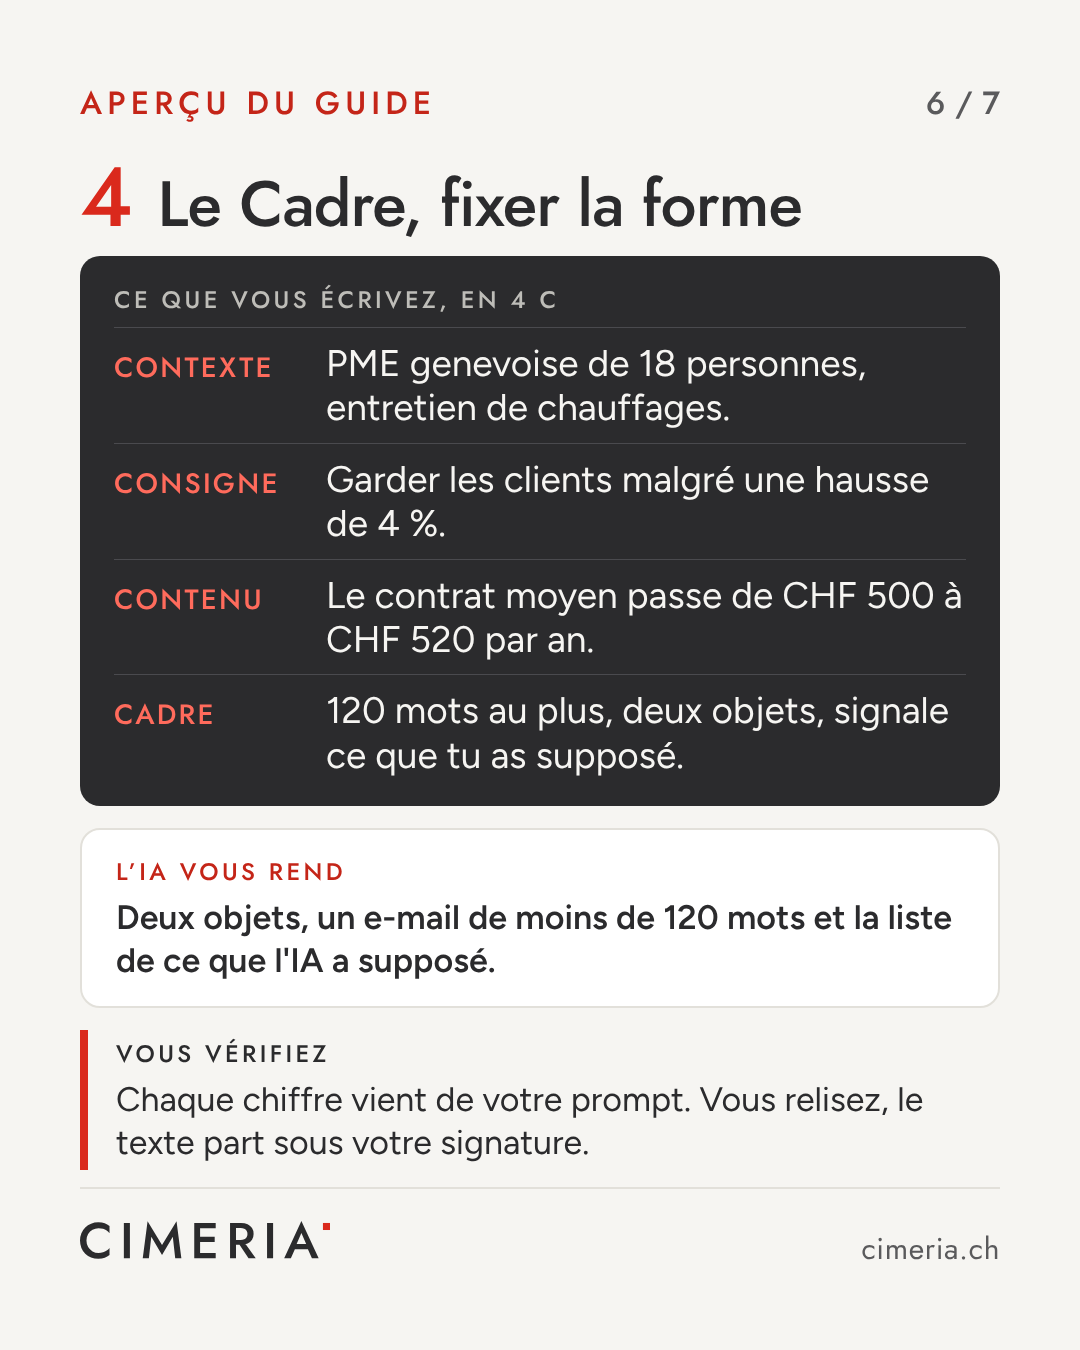
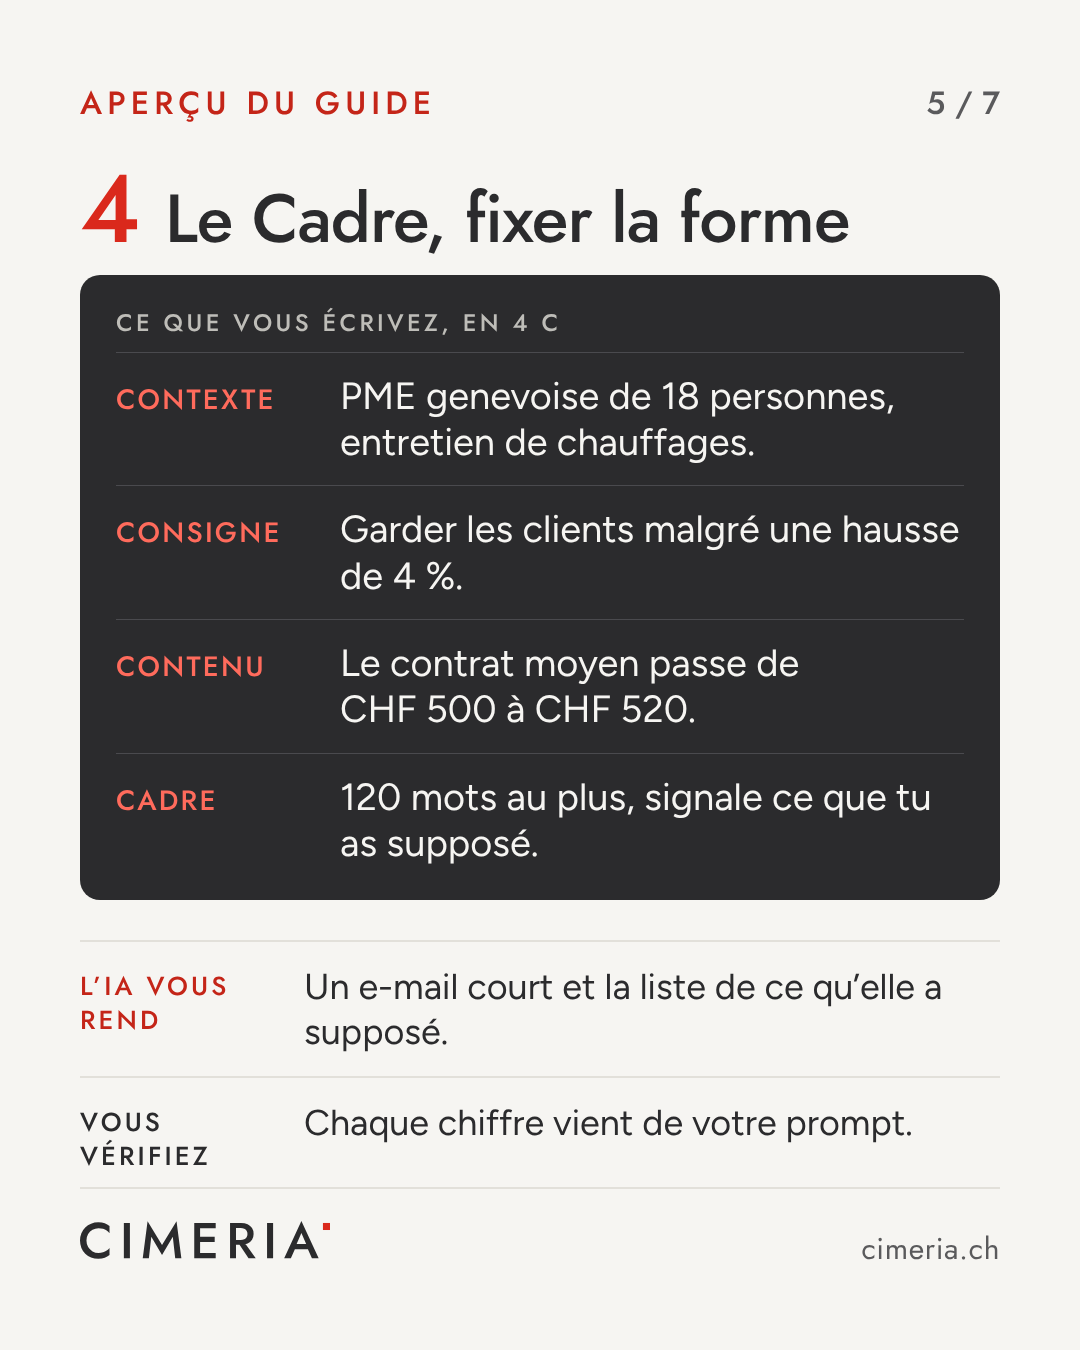
Gabarits : couverture au titre en haut, étape allégée, diapositive capture
Claude-Session: https://claude.ai/code/session_01QYrK9sT28DGg33dLHEJ4sL

Changed region(s): [[0.0611, 0.1244, 0.9472, 0.8711], [0.0917, 0.4356, 0.2444, 0.56], [0.0917, 0.3422, 0.275, 0.4044]]

diff --git a/gabarits/generer.py b/gabarits/generer.py
@@ -10,6 +10,7 @@ Le JSON contient "visuels", une liste. Chaque visuel a un "gabarit" et ses champ
 - cas        : titre, accroche, photo                     (couverture de Reel, univers anthracite)
 - agenda     : titre, evenements [{date, lieu, titre}]
 - actualite  : date, titre, resume, source                (carte seule, LinkedIn et Facebook)
+- couverture_ia, lecon, etape_methode, capture, fin : carrousel de cas pratique (voir chaque fonction)
 Champ commun facultatif : "fichier". Les chemins d'image sont absolus ou relatifs au fichier JSON.
 Règles : textes courts et gros (lecture sur téléphone), rouge réservé à l'étiquette, au filet et au logo.
 """
@@ -31,7 +32,12 @@ CLAIR = dict(fond="#F6F5F2", carte="#FFFFFF", encre="#2B2B2D", douce="#5A5A5C", 
 SOMBRE = dict(fond="#2B2B2D", carte="#36363A", encre="#F6F5F2", douce="#BEBDB8", rouge="#F04A3B", rougeTexte="#FF6B5C", filet="#4A4A4E")
 RACINE = pathlib.Path(".")
 
-def e(t): return html.escape(str(t or ""))
+def e(t):
+    """Échappe le texte et pose les espaces insécables de la typographie française (CHF 500, 4 %, « »)."""
+    t = html.escape(str(t or ""))
+    for a, b in (("CHF ", "CHF\u00a0"), (" %", "\u00a0%"), ("« ", "«\u00a0"), (" »", "\u00a0»"), (" ?", "\u202f?"), (" !", "\u202f!")):
+        t = t.replace(a, b)
+    return t
 def img(chemin):
     p = pathlib.Path(chemin)
     return (p if p.is_absolute() else (RACINE / p)).resolve().as_uri()
@@ -247,16 +253,23 @@ def echange(v):
     return page(base(c, w, h), corps), (w, h)
 
 def couverture_ia(v):
+    """Couverture de cas pratique : le titre en haut, gros, lisible en vignette. L'échange naïf en dessous sert d'illustration.
+    Champs : rubrique, total, titre (45 signes au plus de préférence), accroche, demande, reponse_vague, verdict"""
     c = CLAIR; w, h = 1080, 1350
+    vague = (f"<div style='display:flex;margin-top:18px'><div style='max-width:86%;background:#FFFFFF;border:2px solid #E2E0DA;border-radius:24px 24px 24px 6px;padding:20px 30px;font-size:28px;color:#5A5A5C;line-height:1.3'>{e(v['reponse_vague'])}</div></div>"
+             f"<div style='position:absolute;right:10px;bottom:-34px;border:4px solid #DA291C;background:{c['fond']};color:#C42518;font-family:Jost;font-weight:500;font-size:34px;letter-spacing:.12em;text-transform:uppercase;padding:10px 22px;transform:rotate(-4deg)'>{e(v['verdict'])}</div>") if v.get('verdict') else ""
     corps = f"""<div class='cadre'>
       {tete(v, v['rubrique'], 1)}
-      <div style='margin-top:48px;display:flex;flex-direction:column'>
-        {bulle_vous(v['demande'], None, 34)}
-        {f"<div style='display:flex;margin-top:22px'><div style='background:#FFFFFF;border:2px solid #E2E0DA;border-radius:28px 28px 28px 6px;padding:24px 34px;font-size:32px;color:#5A5A5C;line-height:1.3'>{e(v['reponse_vague'])}</div></div><div style='margin-top:22px;display:inline-block;align-self:flex-start;border:4px solid #DA291C;color:#C42518;font-family:Jost;font-weight:500;font-size:34px;letter-spacing:.12em;text-transform:uppercase;padding:10px 22px;transform:rotate(-3deg)'>{e(v['verdict'])}</div>" if v.get('verdict') else "<div style='display:flex;margin-top:22px'><div style='background:#FFFFFF;border:2px solid #E2E0DA;border-radius:28px 28px 28px 6px;padding:26px 34px;display:flex;gap:14px'><div style='width:18px;height:18px;border-radius:50%;background:#C42518'></div><div style='width:18px;height:18px;border-radius:50%;background:#BEBDB8'></div><div style='width:18px;height:18px;border-radius:50%;background:#BEBDB8'></div></div></div>"}
-      </div>
+      <div class='titre' style='font-size:{tt(v['titre'],124,104,88)}px;line-height:1.02;margin-top:56px'>{e(v['titre'])}</div>
+      <div class='texte' style='margin-top:30px;font-size:40px'>{e(v.get('accroche',''))}</div>
       <div class='milieu'>
-        <div class='titre' style='font-size:{tt(v['titre'],96,84,72)}px'>{e(v['titre'])}</div>
-        <div class='texte' style='margin-top:32px'>{e(v.get('accroche',''))}</div>
+        <div style='position:relative;opacity:.96'>
+          <div style='display:flex;justify-content:flex-end'>
+            <div style='max-width:86%;background:#2B2B2D;color:#F6F5F2;border-radius:24px 24px 6px 24px;padding:22px 30px'>
+              <div style='font-size:22px;font-family:Jost;font-weight:500;letter-spacing:.14em;text-transform:uppercase;color:#BEBDB8;margin-bottom:10px'>Vous demandez</div>
+              <div style='font-size:30px;line-height:1.25;font-weight:500'>{e(v['demande'])}</div></div></div>
+          {vague}
+        </div>
       </div>
       {pied(c, 'Faites défiler →')}
     </div>"""
@@ -275,38 +288,62 @@ def lecon(v):
     </div>"""
     return page(base(c, w, h), corps), (w, h)
 
+def mots(*textes): return sum(len(str(t).split()) for t in textes)
+
 def etape_methode(v):
-    """Étape de méthode IA : la consigne structurée (4 C), ce que l'IA rend, ce que vous vérifiez. Univers clair.
-    Champs : rubrique, position, total, numero, titre, avant (facultatif), consigne [[label, texte]x4], rend, verifie"""
+    """Étape de méthode IA, version allégée : la consigne en 4 C, puis deux lignes, ce que l'IA rend et ce que vous vérifiez.
+    Champs : rubrique, position, total, numero, titre, consigne [[label, texte]x4], rend, verifie
+    Budget : 60 mots au plus pour consigne, rend et verifie réunis. Au-delà, le script prévient.
+    Une étape plus riche se répartit sur deux diapositives."""
     c = CLAIR; w, h = 1080, 1350
-    avant = f"<div style='font-size:30px;font-weight:600;margin-top:26px;color:{c['douce']}'>Avant · {e(v['avant'])}</div>" if v.get("avant") else ""
-    lignes = "".join(f"<div style='display:flex;gap:22px;padding:13px 0;border-top:1px solid #4A4A4E'><div style='width:190px;flex:none;font-size:28px;font-family:Jost;font-weight:500;letter-spacing:.08em;text-transform:uppercase;color:#FF6B5C;padding-top:6px'>{e(a)}</div><div style='font-size:37px;line-height:1.2'>{e(b)}</div></div>" for a, b in v["consigne"])
+    lignes = "".join(f"<div style='display:flex;gap:24px;padding:20px 0;border-top:1px solid #4A4A4E'><div style='width:200px;flex:none;font-size:28px;font-family:Jost;font-weight:500;letter-spacing:.08em;text-transform:uppercase;color:#FF6B5C;padding-top:6px'>{e(a)}</div><div style='font-size:38px;line-height:1.22'>{e(b)}</div></div>" for a, b in v["consigne"])
+    ligne = lambda lab, txt, coul: f"<div style='display:flex;gap:24px;padding:22px 0;border-top:2px solid {c['filet']}'><div style='width:200px;flex:none;font-size:26px;font-family:Jost;font-weight:500;letter-spacing:.12em;text-transform:uppercase;color:{coul};padding-top:6px;line-height:1.3'>{lab}</div><div style='font-size:36px;line-height:1.25'>{e(txt)}</div></div>"
     corps = f"""<div class='cadre'>
       {tete(v, v['rubrique'], v.get('position'))}
-      <div style='display:flex;align-items:baseline;gap:26px;margin-top:34px'>
-        <div class='titre' style='font-size:84px;line-height:.9;color:{c['rouge']}'>{e(v['numero'])}</div>
-        <div class='titre' style='font-size:{tt(v['titre'],64,56,50)}px'>{e(v['titre'])}</div>
+      <div style='display:flex;align-items:baseline;gap:26px;margin-top:40px'>
+        <div class='titre' style='font-size:96px;line-height:.9;color:{c['rouge']}'>{e(v['numero'])}</div>
+        <div class='titre' style='font-size:{tt(v['titre'],68,60,52)}px'>{e(v['titre'])}</div>
       </div>
-      {avant}
-      <div class='milieu' style='gap:22px'>
-        <div style='background:#2B2B2D;color:#F6F5F2;border-radius:20px;padding:26px 34px 16px'>
-          <div style='font-size:24px;font-family:Jost;font-weight:500;letter-spacing:.14em;text-transform:uppercase;color:#BEBDB8;margin-bottom:10px'>Ce que vous écrivez, en 4 C</div>
+      <div class='milieu' style='padding-top:28px'>
+        <div style='background:#2B2B2D;color:#F6F5F2;border-radius:20px;padding:30px 36px 14px'>
+          <div style='font-size:24px;font-family:Jost;font-weight:500;letter-spacing:.14em;text-transform:uppercase;color:#BEBDB8;margin-bottom:12px'>Ce que vous écrivez, en 4 C</div>
           {lignes}
         </div>
-        <div style='background:{c['carte']};border:2px solid {c['filet']};border-radius:20px;padding:24px 34px'>
-          <div style='font-size:24px;font-family:Jost;font-weight:500;letter-spacing:.14em;text-transform:uppercase;color:{c['rougeTexte']};margin-bottom:8px'>L’IA vous rend</div>
-          <div style='font-size:34px;line-height:1.25;font-weight:600'>{e(v['rend'])}</div>
-        </div>
-        <div style='border-left:8px solid {c['rouge']};padding:6px 0 6px 28px'>
-          <div style='font-size:24px;font-family:Jost;font-weight:500;letter-spacing:.14em;text-transform:uppercase;color:{c['encre']};margin-bottom:8px'>Vous vérifiez</div>
-          <div style='font-size:34px;line-height:1.25'>{e(v['verifie'])}</div>
+        <div style='margin-top:40px'>
+          {ligne('L’IA vous rend', v['rend'], c['rougeTexte'])}
+          {ligne('Vous vérifiez', v['verifie'], c['encre'])}
         </div>
       </div>
       {pied(c)}
     </div>"""
     return page(base(c, w, h), corps), (w, h)
 
-GABARITS = dict(etape_methode=etape_methode, echange=echange, couverture_ia=couverture_ia, lecon=lecon, demo=demo, couverture=couverture, etape=etape, fait=fait, fin=fin, cas=cas, agenda=agenda, actualite=actualite)
+def capture(v):
+    """Le résultat réel : une vraie capture d'écran, dont le bas s'efface pour renvoyer à l'article. Univers clair.
+    Champs : rubrique, position, total, numero (facultatif), titre, capture, recadrage [x0,y0,x1,y1] (facultatif),
+    masque (part effacée en bas, 0,35 par défaut), legende (outil et date de la capture), suite (facultatif)"""
+    c = CLAIR; w, h = 1080, 1350
+    m = float(v.get("masque", .35))
+    num = f"<div class='titre' style='font-size:84px;line-height:.9;color:{c['rouge']}'>{e(v['numero'])}</div>" if v.get("numero") else ""
+    corps = f"""<div class='cadre'>
+      {tete(v, v['rubrique'], v.get('position'))}
+      <div style='display:flex;align-items:baseline;gap:26px;margin-top:40px'>
+        {num}<div class='titre' style='font-size:{tt(v['titre'],68,60,52)}px'>{e(v['titre'])}</div>
+      </div>
+      <div style='margin-top:40px;margin-right:-80px;flex:1;min-height:0;position:relative;border-radius:16px 0 0 16px;overflow:hidden;background:#FFFFFF;border:2px solid {c['filet']};border-right:none;box-shadow:0 24px 60px rgba(43,43,45,.12)'>
+        <img src='{img(v['chemin_recadre'])}' style='display:block;width:100%'>
+        <div style='position:absolute;left:0;right:0;bottom:0;height:{m*100:.0f}%;background:linear-gradient(rgba(255,255,255,0),#FFFFFF 70%)'></div>
+        <div style='position:absolute;left:0;right:80px;bottom:36px;text-align:center'>
+          <span style='display:inline-block;background:#2B2B2D;color:#F6F5F2;font-family:Jost;font-weight:500;font-size:28px;letter-spacing:.12em;text-transform:uppercase;padding:16px 30px;border-radius:999px'>{e(v.get('suite','La suite dans l’article'))}</span>
+        </div>
+      </div>
+      <div class='site' style='margin-top:22px;font-size:26px'>{e(v.get('legende',''))}</div>
+      <div style='height:28px'></div>
+      {pied(c)}
+    </div>"""
+    return page(base(c, w, h), corps), (w, h)
+
+GABARITS = dict(capture=capture, etape_methode=etape_methode, echange=echange, couverture_ia=couverture_ia, lecon=lecon, demo=demo, couverture=couverture, etape=etape, fait=fait, fin=fin, cas=cas, agenda=agenda, actualite=actualite)
 
 async def main(spec, sortie):
     global RACINE
@@ -316,7 +353,9 @@ async def main(spec, sortie):
     from PIL import Image
     for i, v in enumerate(visuels, 1):
         k = v.get("carte", {})
-        if k.get("type") == "image":
+        if v.get("gabarit") == "capture": k = v
+        if k is v or k.get("type") == "image":
+            if k is v: k.setdefault("chemin", v["capture"])
             src = pathlib.Path(k["chemin"]); src = src if src.is_absolute() else RACINE / src
             im = Image.open(src).convert("RGB")
             if k.get("recadrage"): im = im.crop(tuple(k["recadrage"]))
@@ -330,11 +369,14 @@ async def main(spec, sortie):
             await pg.goto(tmp.as_uri()); await pg.evaluate("document.fonts.ready"); await pg.wait_for_timeout(300)
             nom = v.get("fichier", f"{i:02d}-{v['gabarit']}.png")
             await pg.screenshot(path=str(sortie / nom))
+            if v["gabarit"] == "etape_methode" and (n := mots(*(b for _, b in v["consigne"]), v["rend"], v["verifie"])) > 60:
+                print(f"ATTENTION {nom} : {n} mots, 60 au plus, alléger ou répartir sur deux diapositives")
             if await pg.evaluate("(() => { const c=document.querySelector('.cadre'); return c.scrollHeight > c.clientHeight + 2; })()"):
                 print(f"ATTENTION {nom} : le texte déborde, raccourcir")
             print(sortie / nom)
             await pg.close(); tmp.unlink()
-            if v.get('carte',{}).get('chemin_recadre'): pathlib.Path(v['carte']['chemin_recadre']).unlink()
+            for k in (v.get('carte', {}), v):
+                if k.get('chemin_recadre'): pathlib.Path(k['chemin_recadre']).unlink(missing_ok=True)
         await nav.close()
 
 if __name__ == "__main__":

diff --git a/CLAUDE.md b/CLAUDE.md
@@ -31,14 +31,15 @@ Relire l'article publié sur cimeria.ch en entier. Tous les chiffres, consignes 
 - Montrer la vraie consigne en 4 C (Contexte, Consigne, Contenu, Cadre) et les vérifications.
 - Ne jamais laisser croire qu'une question suffit. Le post n'est pas réducteur.
 
-### 3. Construire le carrousel Instagram en 7 diapositives (1080 x 1350)
+### 3. Construire le carrousel Instagram en 8 diapositives (1080 x 1350)
 
 | N° | Gabarit | Étiquette | Contenu |
 |---|---|---|---|
-| 1 | `couverture_ia` | Pratique | La demande naïve, la réponse vague de l'IA, le tampon « Trop vague ». Un titre sans mot répété. Une accroche concrète (durée, nombre d'étapes, exemple). |
+| 1 | `couverture_ia` | Pratique | Le titre en haut, gros et lisible en vignette (45 signes au plus), sans mot répété. Une accroche concrète (durée, nombre d'étapes, exemple). En dessous, la demande naïve, la réponse vague de l'IA et le tampon « Trop vague ». |
 | 2 | `lecon` | Aperçu du guide | « Ce qui fait la différence ». Les 4 C nommés, vos sources, votre contrôle. |
-| 3 à 6 | `etape_methode` | Aperçu du guide | Une étape par diapositive, en trois blocs : « Ce que vous écrivez, en 4 C » (consignes courtes), « L'IA vous rend », « Vous vérifiez ». Les termes techniques sont traduits (« un rapport à ouvrir dans le navigateur » plutôt que « HTML »). Les sigles sont écrits en toutes lettres. |
-| 7 | `fin` | Pratique | « Enregistrez ce post pour le retrouver. » La consigne complète de l'étape 1 annoncée en commentaire, le renvoi à l'article en lien dans la bio. Signature « Mickaël Bovagnet, Auteur du guide, Cimeria » avec le portrait. |
+| 3 à 6 | `etape_methode` | Aperçu du guide | Une étape par diapositive : le bloc « Ce que vous écrivez, en 4 C » (consignes courtes), puis deux lignes, « L'IA vous rend » et « Vous vérifiez ». 60 mots au plus par diapositive, le script prévient au-delà. Une étape plus riche se répartit sur deux diapositives. Les termes techniques sont traduits (« un rapport à ouvrir dans le navigateur » plutôt que « HTML »). Les sigles sont écrits en toutes lettres. |
+| 7 | `capture` | Aperçu du guide | Le résultat réel. Une vraie capture tirée de l'article (outil et date en légende), recadrée pour rester lisible sur téléphone, le bas effacé avec « La suite dans l'article ». Jamais d'image générée par IA ni de photo de banque d'images. |
+| 8 | `fin` | Pratique | « Enregistrez ce post pour le retrouver. » La consigne complète de l'étape 1 annoncée en commentaire, le renvoi à l'article en lien dans la bio. Signature « Mickaël Bovagnet, Auteur du guide, Cimeria » avec le portrait. |
 
 Le nombre d'étapes peut varier selon l'article. La structure reste la même.
 
